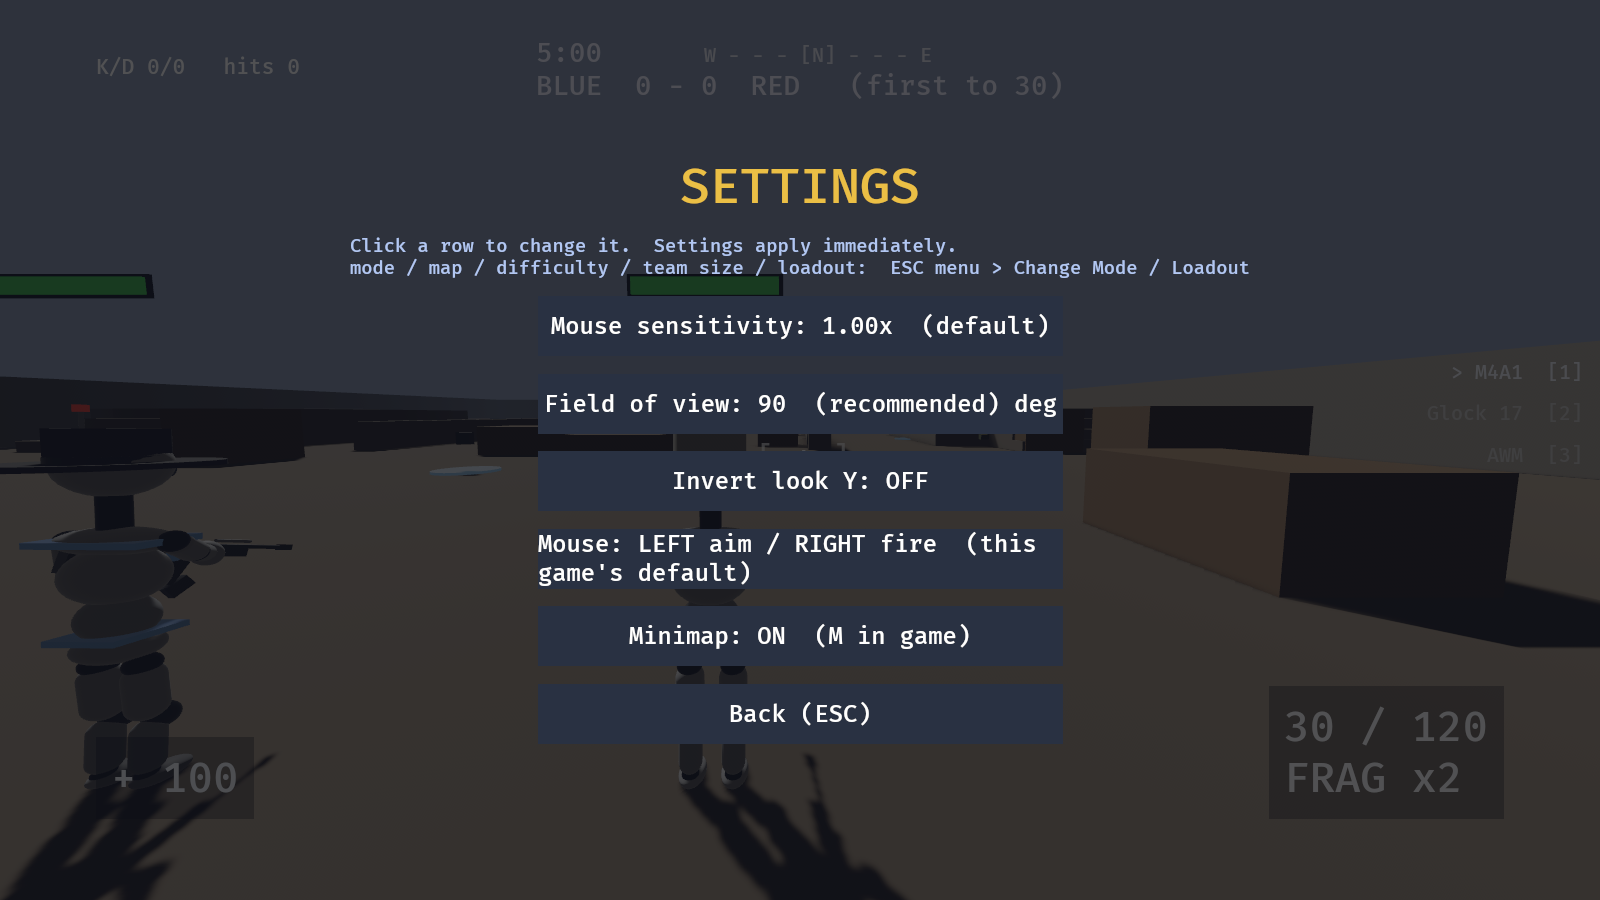
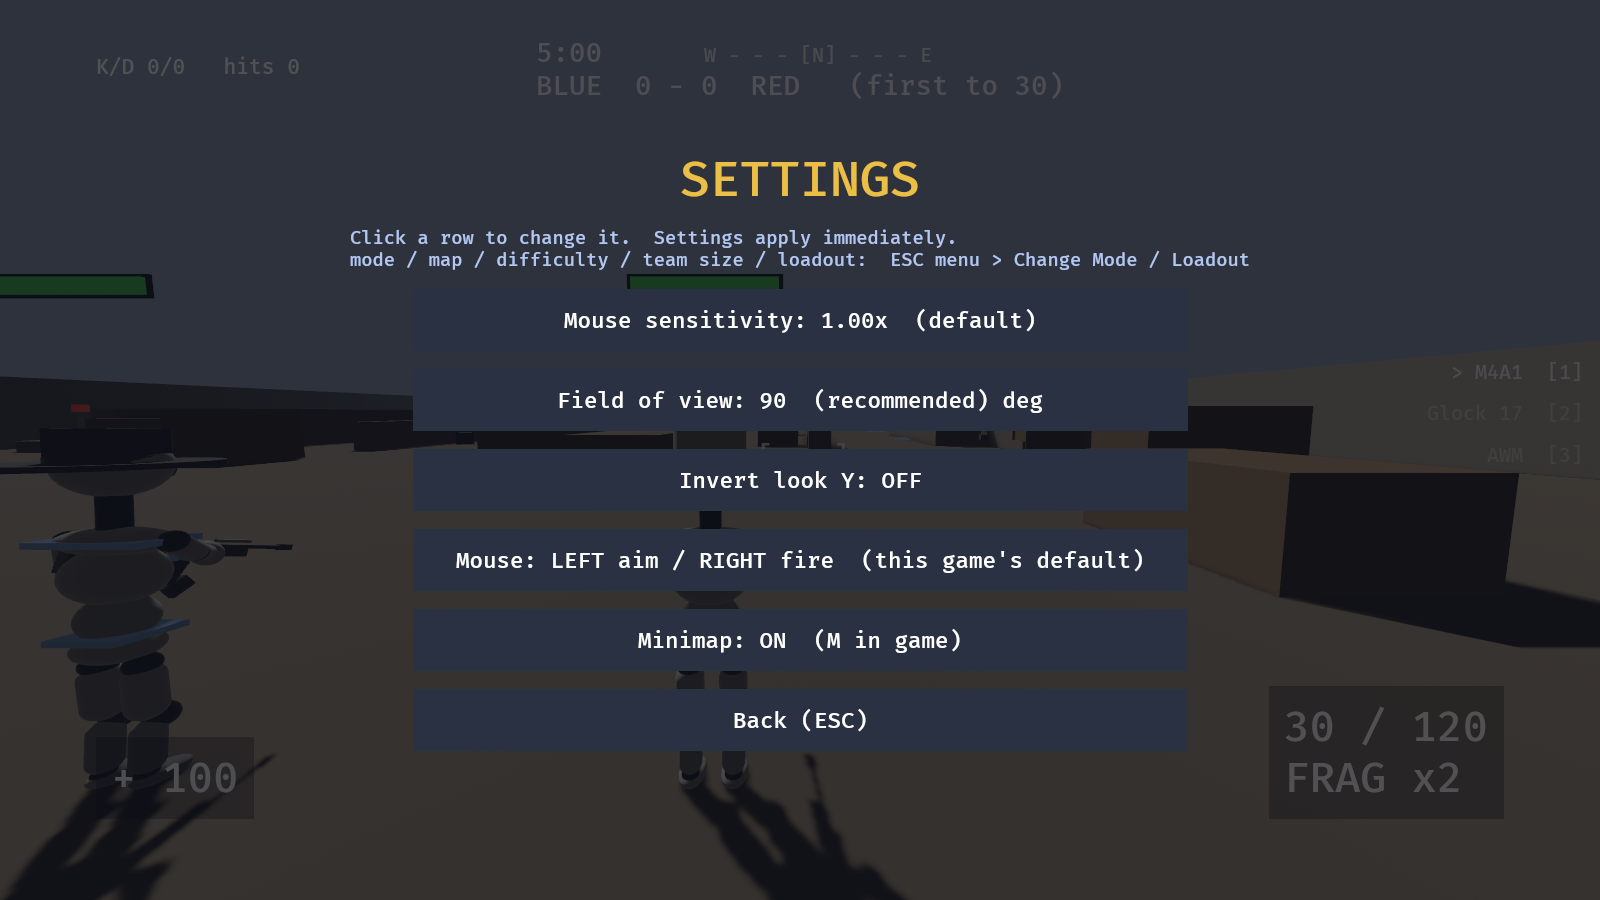
Fix menu text overlap; add CHANGES.md brief
The mode buttons and settings rows were 420x48 with 19-20pt text, but
the longest labels are 46-48 chars - they WRAPPED to two lines and
spilled past their own button background, so "KING OF THE HILL" and
"ZOMBIE EXTRACTION" overlapped each other illegibly. Both row types are
now 620x50 at 18pt, which fits every label on one line.

The intro screen's loadout-spec readout also ran underneath the centered
mode buttons; capped its width so the two columns stay clear.

Verified by re-capturing 01-loadout-intro.png: all three mode rows are
single-line and the spec column no longer collides.

Adds handback/CHANGES.md - a plain-language record of this whole stretch
written for someone who wasn't watching it happen: the two audit waves
and their 6/36 refutation rate, the sim panic, the team-kill scoring
exploit, the bow being largely unwired, the two bugs I introduced
myself, and what is still explicitly not done.

120/120 tests green.

diff --git a/engine/crates/jk_tdm/src/main.rs b/engine/crates/jk_tdm/src/main.rs
@@ -9071,10 +9071,15 @@ fn open_intro(
             ..default()
         },
         TextColor(Color::srgb(0.62, 0.85, 0.90)),
+        // capped width: the centered mode buttons are 620 wide, so on a
+        // 1280-wide window they start around x=330 - an unconstrained
+        // readout ran straight underneath them and the two texts
+        // overlapped illegibly.
         Node {
             position_type: PositionType::Absolute,
             left: Val::Px(18.0),
             bottom: Val::Px(16.0),
+            max_width: Val::Px(300.0),
             ..default()
         },
         GlobalZIndex(12),
@@ -9177,9 +9182,14 @@ fn open_intro(
                 p.spawn((
                     Button,
                     which,
+                    // 620 wide / 18pt: the longest label ("ZOMBIE
+                    // EXTRACTION - survive, then hold the ring") is 46
+                    // chars, which WRAPPED inside the old 420x48 box and
+                    // overlapped the row beneath it. Sized so every label
+                    // stays on one line.
                     Node {
-                        width: Val::Px(420.0),
-                        height: Val::Px(48.0),
+                        width: Val::Px(620.0),
+                        height: Val::Px(50.0),
                         justify_content: JustifyContent::Center,
                         align_items: AlignItems::Center,
                         ..default()
@@ -9189,7 +9199,7 @@ fn open_intro(
                 .with_children(|b| {
                     b.spawn((
                         Text::new(label),
-                        TextFont { font_size: 20.0, ..default() },
+                        TextFont { font_size: 18.0, ..default() },
                         TextColor(Color::WHITE),
                     ));
                 });
@@ -9542,9 +9552,12 @@ fn open_settings(
                 p.spawn((
                     Button,
                     which,
+                    // 620 wide / 18pt: the mouse-swap row is 48 chars and
+                    // WRAPPED to two lines inside the old 420x48 box,
+                    // spilling past the button's own background.
                     Node {
-                        width: Val::Px(420.0),
-                        height: Val::Px(48.0),
+                        width: Val::Px(620.0),
+                        height: Val::Px(50.0),
                         justify_content: JustifyContent::Center,
                         align_items: AlignItems::Center,
                         ..default()
@@ -9555,7 +9568,7 @@ fn open_settings(
                     let mut e = b.spawn((
                         Text::new(label),
                         TextFont {
-                            font_size: 19.0,
+                            font_size: 18.0,
                             ..default()
                         },
                         TextColor(Color::WHITE),

diff --git a/engine/crates/jk_tdm/handback/CHANGES.md b/engine/crates/jk_tdm/handback/CHANGES.md
@@ -1,0 +1,180 @@
+# What changed — audit passes, fixes, and new systems
+
+A plain-language record of everything changed in this stretch. Written to
+be read by someone who was not watching it happen.
+
+**Tests: 49 → 120 green.** Every number below has a test behind it or an
+explicit note saying it doesn't.
+
+---
+
+## The method: audit, then verify the audit
+
+Instead of guessing what was broken, two audit waves ran across the whole
+codebase — 45 agents total, each subsystem deep-read by its own agent,
+and then **every single finding handed to a separate agent whose job was
+to prove it wrong.**
+
+| Wave | Subsystems | Claimed | Confirmed | Refuted |
+|---|---|---|---|---|
+| 1 | minigun, mech, spear, motion/camera | 16 | 12 | 4 |
+| 2 | weapons, throwables, bots, abilities, physics | 20 | 18 | 2 |
+
+**6 of 36 claims were killed by the verifiers.** That refutation rate is
+the reason to trust the other 30 — a review that confirms everything it
+finds isn't reviewing. In one case the verifier confirmed the bug but
+corrected the finder's explanation of *why* it mattered, and only the
+accurate part was fixed.
+
+**Two of the confirmed bugs were mine**, introduced earlier in this same
+session. Both are called out below rather than quietly repaired.
+
+---
+
+## Crashes and exploits (the ones that actually mattered)
+
+**A sim panic.** An axe sweep through the zombie horde collected victim
+*indices*, then killed them one at a time — but killing uses
+`swap_remove`, which moves the last element into the dead slot and
+shrinks the list. Any index collected earlier pointing at the old last
+slot became invalid, and the next hit **panicked the authoritative
+simulation**. One sweep covers a 2.1 m / 90° arc of a horde packed to
+0.55 m and one-shots every zombie type, so multi-kill sweeps are the
+*normal* case, not an edge case. Now tracks ids instead of positions.
+
+**Team-kill point farming.** Grenades and fire were the only damage
+sources without a friendly-fire filter, and the kill-credit code only
+checked for *self*-kills. A player could kill their own teammates with a
+grenade, score TDM points for it, and **win the match**.
+
+**One key press did two things.** The whole input command is replayed for
+each fixed simulation step, and only the shield toggle was being cleared
+between steps. So tapping G to switch grenades advanced **two or more
+slots** on any frame that ran more than one step — which at 60 FPS is
+every frame.
+
+**A grenade that exploded in your hand.** The cook timer wasn't reset
+when you switched grenade types. Switching from a nearly-cooked smoke
+(1.2 s fuse) to a frag detonated it instantly in your palm; switching the
+other way silently defused a frag you'd been cooking.
+
+---
+
+## The bow was barely wired up
+
+The player's bow fires through a completely separate code path from every
+other weapon, and that path skipped almost everything:
+
+- **Zero spread.** Not "a little accurate" — *perfectly* accurate, while
+  sprinting, airborne, mid-turn. The bow's own accuracy stats were dead
+  numbers and the whole stability system didn't apply to it.
+- **No auto-reload.** A human had to press R after *every single arrow*,
+  while a bot's bow reloaded itself automatically.
+- **The aim arc lied.** The trajectory preview drew at a fixed 52 m/s
+  while the real arrow leaves at 19–55 m/s depending on draw. So the
+  preview was wrong at every draw strength *and completely frozen across
+  the draw* — hiding the one thing the draw mechanic exists to teach.
+
+All three now share one code path with every other weapon, so a future
+fourth firing path can't skip it either.
+
+---
+
+## Fights that weren't being simulated properly
+
+- **Melee, repulsor and flame all measured attack direction from the
+  victim to themselves** — a zero-length vector. Every mech hit read as
+  "side armor" regardless of where you actually hit it, and the Folk
+  shield brace never matched an attack at all.
+- **Zombies ignored armor entirely.** Claw damage was written straight to
+  health, skipping armor sets, the brace, the raised shield, and the
+  mech's 1000-point hull. **A mech was exactly as soft as a bare soldier
+  against zombies.** Now the hull takes the hit first.
+- **Zombies clawed people standing above them.** They have no vertical
+  simulation, and the attack check only measured floor distance — so the
+  horde could hit a player on top of a crate.
+- **Respawned bots shot instantly.** A bot's reaction delay froze at the
+  moment it died and carried through respawn, so a bot killed mid-
+  firefight came back already at zero reaction time.
+- **Bot-piloted mechs could crouch** even though the player's couldn't —
+  the ban had been added to one path only. And a mech was being *charged*
+  the crouch speed penalty for a stance it's not allowed to enter.
+
+---
+
+## Motion and camera (both of these were my own bugs)
+
+**The spear follow-through did the opposite of what it claimed.** I wired
+this earlier in the session and wrote a test asserting the torso goes
+*still* at release — that test was encoding the bug as if it were the
+spec. In reality the torso snapped to neutral, held for 0.125 s, then
+swung *backwards* into the wind-up direction. It now continues through
+the throw and relaxes, which is what the docs always said.
+
+**The camera spring was governing everything.** I'd wired a heavy spring
+meant for recovering from wall collisions, but it ended up filtering
+*every* camera movement. Sprinting took ~0.55 s to settle instead of
+~0.25 s, aiming released over 0.48 s instead of 0.12 s, and **looking up
+snapped while looking down lagged 18 cm behind.** The fix needed explicit
+tracking of "am I actually against a wall" — the obvious distance check
+can't tell that apart from a camera that's simply catching up. My first
+attempt at the fix failed its own new test, which is why the test exists.
+
+**Other motion fixes:** the post-roll landing dip was dropping the
+character's head *below the range the hit-detection test guards* — and
+the test literally couldn't see it, because the dip was applied after the
+function the test samples. The landing "bounce" could never actually
+bounce (it ran alongside the dip, smaller and faster, so it could only
+shrink it). The minigun's resting barrels looked identical to seized
+ones. A hand-fidget animation was written, tested, documented as live —
+and never actually reached the screen.
+
+---
+
+## Things the game was telling you that weren't true
+
+- The crosshair never widened as the minigun heated up, even though the
+  spread nearly **triples** across a heat cycle — and that widening is
+  the minigun's entire drawback.
+- Snipers saw a crosshair that ignored the scoped accuracy bonus
+  entirely.
+- Three separate menu strings advertised **mech jet flight** that was
+  removed from the game two briefs ago.
+- A "burning" state was tracked by the simulation and displayed nowhere.
+  Now burning fighters visibly panic.
+
+---
+
+## New: real settings
+
+Mouse sensitivity and field of view were **compile-time constants** — no
+way to change them without rebuilding the game. That alone makes it
+unplayable for anyone whose mouse doesn't happen to match the developer's.
+
+- **Mouse sensitivity**, 0.50× to 3.00×
+- **Field of view**, 62° to 110° (default moved to 90 — the old fixed 62
+  reads as claustrophobic on a wide monitor)
+- **Invert look Y**
+
+Aim sensitivity while scoped is measured against *your chosen* FOV, so
+picking a wide view doesn't secretly change your aim feel too.
+
+Also fixed a layout bug where the longest menu labels wrapped and
+overlapped the rows beneath them.
+
+**New capture path for menus.** The loadout and settings screens never
+enter gameplay, so the screenshot system literally could not photograph
+them — UI was the one part of this codebase exempt from "prove it with a
+picture". `JK_CAPTURE=menus` now snaps both.
+
+---
+
+## Named, not done
+
+- **Bots never fight the zombie horde.** In the co-op mode everyone is on
+  one team, and the bots' targeting only looks for *enemy players* — so
+  AI teammates stand around while zombies attack. That's a missing AI
+  feature, not a repair, and it's big enough to deserve its own pass.
+- The 20-part detachable mech, the castle map, and the full character-
+  customization system remain content builds rather than code fixes —
+  tracked in `handback/brief-ix/REPORT.md` and the open-work ledger.
